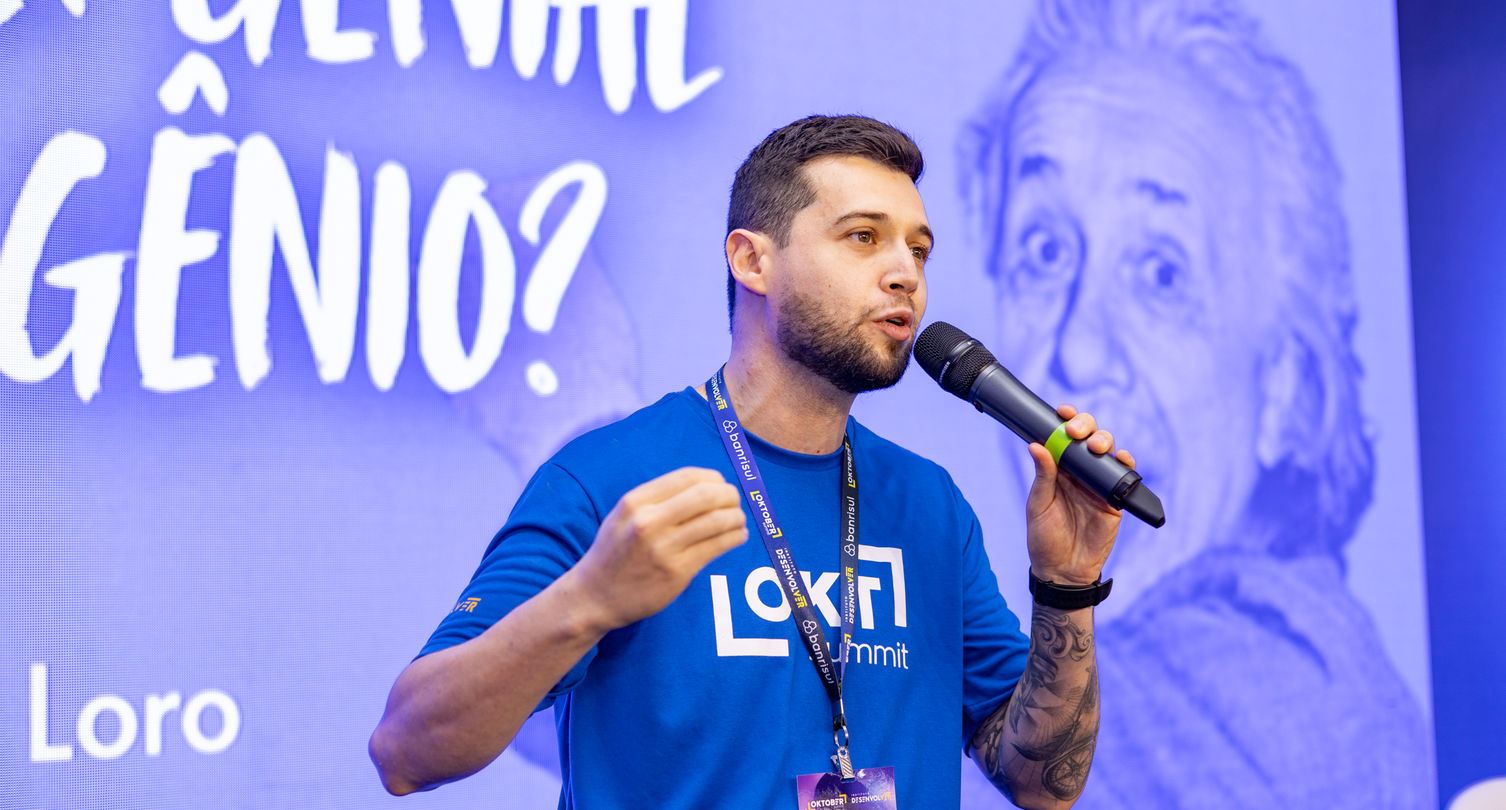
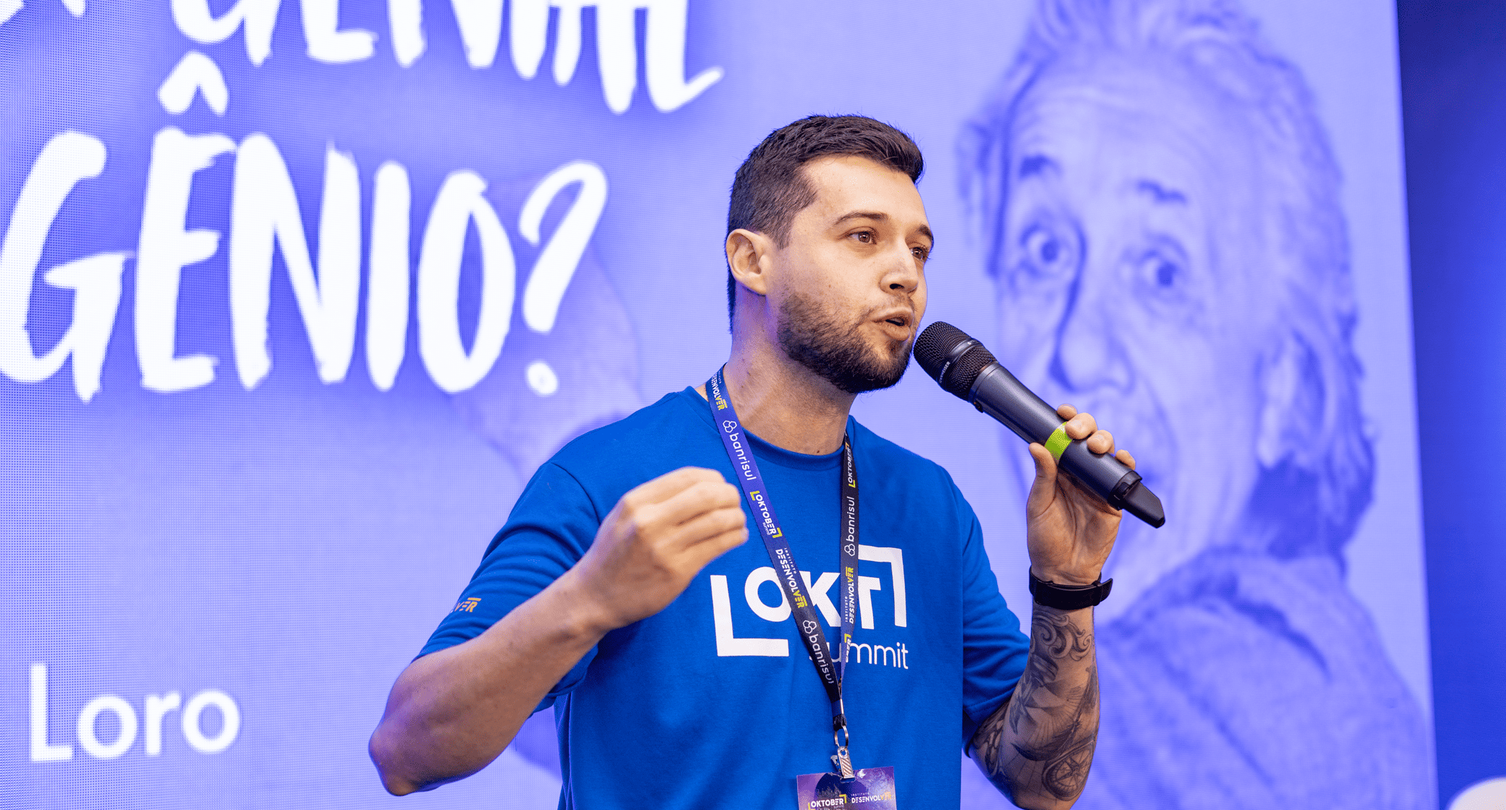
Subindo imagens comprimidas

diff --git a/style/index.css b/style/index.css
@@ -760,4 +760,8 @@ header ul#menu a {
   line-height: 1.6;
   padding-bottom: 10px;
   }
+
+  .summit25 {
+    height: 280px;
+  }
 }
